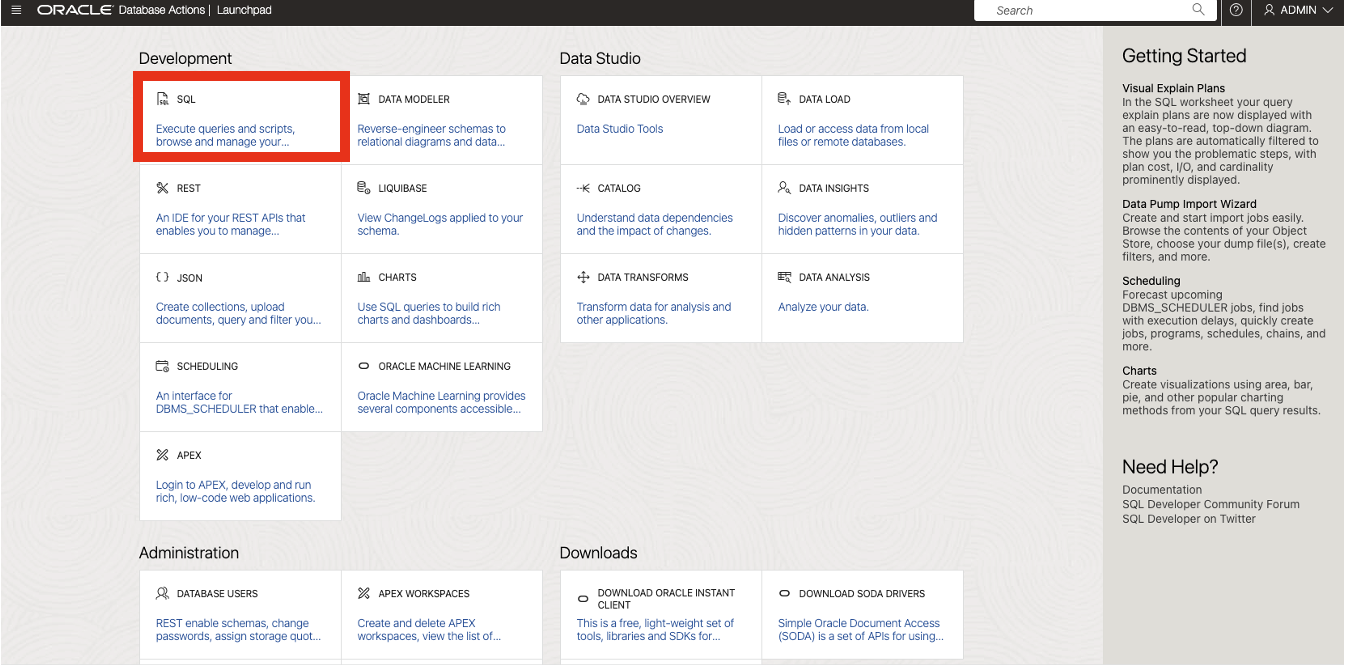
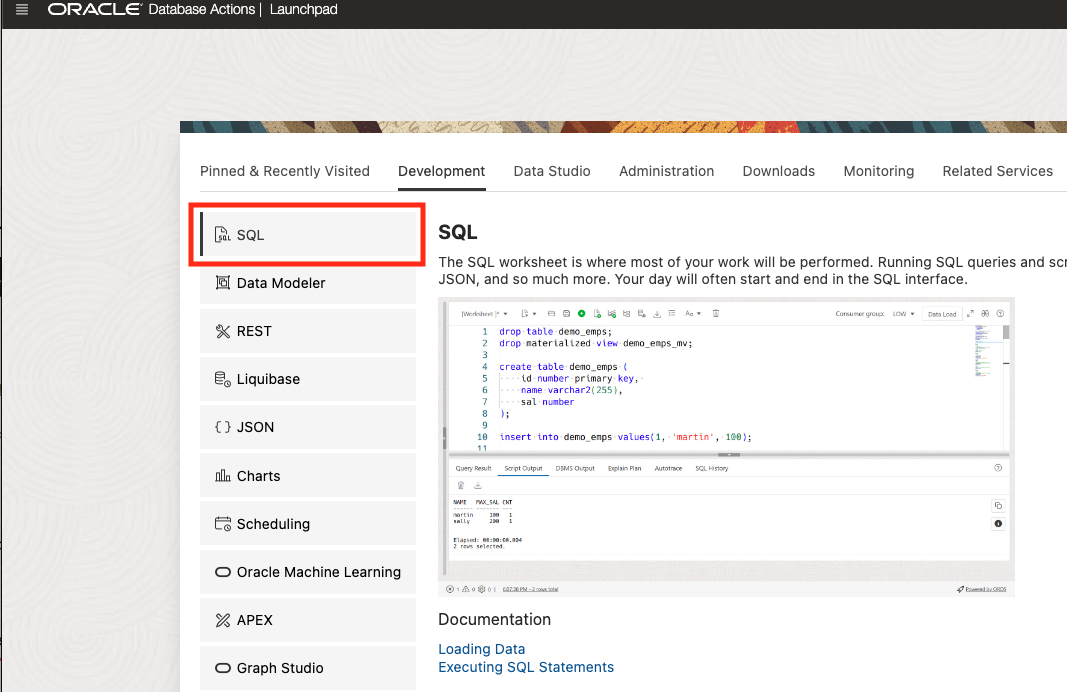
new dbactions screenshots and minor tweaking

diff --git a/json/mongodb-api/install/install.md b/json/mongodb-api/install/install.md
@@ -70,7 +70,7 @@ Copy **ONE** of the following *curl* commands and paste it to the command or ter
 
     ```
     <copy>
-    curl https://downloads.mongodb.com/compass/mongosh-1.9.1-darwin-x64.zip -o mongosh.zip
+    curl https://downloads.mongodb.com/compass/mongosh-2.2.4-darwin-x64.zip -o mongosh.zip
     </copy>
     ```
 
@@ -78,7 +78,7 @@ Copy **ONE** of the following *curl* commands and paste it to the command or ter
 
     ```
     <copy>
-    curl https://downloads.mongodb.com/compass/mongosh-1.9.1-darwin-arm64.zip -o mongosh.zip
+    curl https://downloads.mongodb.com/compass/mongosh-2.2.4-darwin-arm64.zip -o mongosh.zip
     </copy>
     ```
 
@@ -86,7 +86,7 @@ Copy **ONE** of the following *curl* commands and paste it to the command or ter
 
     ```
     <copy>
-    curl https://downloads.mongodb.com/compass/mongosh-1.9.1-win32-x64.zip -o mongosh.zip
+    curl https://downloads.mongodb.com/compass/mongosh-2.2.4-win32-x64.zip -o mongosh.zip
     </copy>
     ```
 
@@ -132,4 +132,4 @@ You may now **proceed to the next lab**.
 
 - **Author** - Roger Ford, Principal Product Manager, Oracle Database
 - **Contributors** - Kamryn Vinson, Andres Quintana
-- **Last Updated By/Date** - Hermann Baer, June 2023
+- **Last Updated By/Date** - Hermann Baer, April 2024

diff --git a/json/mongodb-api/mongoshell/mongoshell.md b/json/mongodb-api/mongoshell/mongoshell.md
@@ -111,16 +111,10 @@ You should now be in Mongo Shell. This is a command-line utility to interact wit
 
 	```
 	<copy>
-	db.emp.insertOne(
-		{ "name":"Smith", "job": "Programmer", "salary": 60000, "email" : "smith@example.com" }
-	)
-	</copy>
-	```
-
-	```
-	<copy>
-	db.emp.insertOne(
+	db.emp.insertMany([
+		{ "name":"Smith", "job": "Programmer", "salary": 60000, "email" : "smith@example.com" },
 		{ "name":"Miller", "job": "Programmer", "salary": 70000 }
+	]
 	)	
 	</copy>
 	```
@@ -201,4 +195,4 @@ You may now proceed to the next lab.
 
 - **Author** - Roger Ford, Principal Product Manager
 - **Contributors** - Kamryn Vinson, Andres Quintana
-- **Last Updated By/Date** - Hermann Baer, June 2023
+- **Last Updated By/Date** - Hermann Baer, April 2024

diff --git a/json/mongodb-api/dbactions/dbactions.md b/json/mongodb-api/dbactions/dbactions.md
@@ -186,7 +186,7 @@ Now we're going to look at a SQL view of the same data, showing how you can swap
 
     Now we want to open SQL. Select __SQL__ in the Development section.
 
-    ![dbactions menu](./images/dbactions-menu-json.png " ")
+    ![dbactions menu](./images/dbactions-menu-sql.png " ")
 
 2.  Examine the EMP table
 
